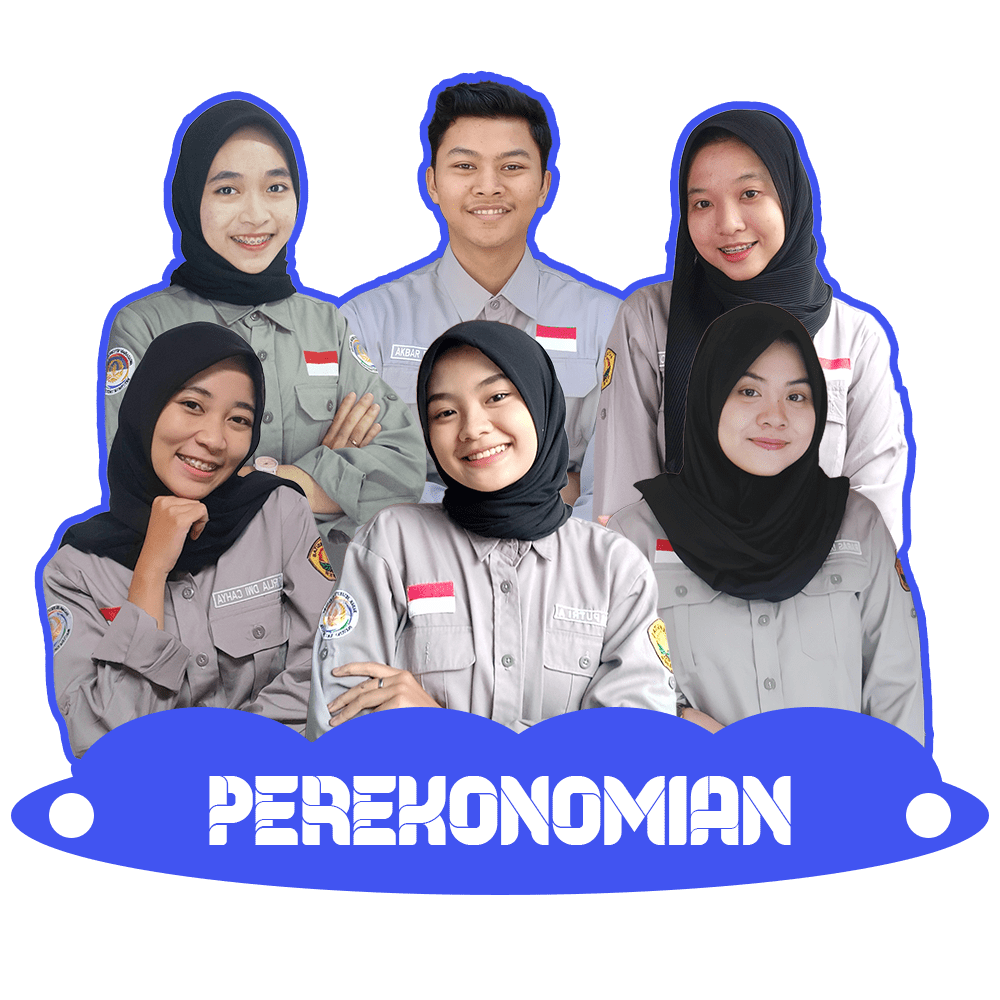
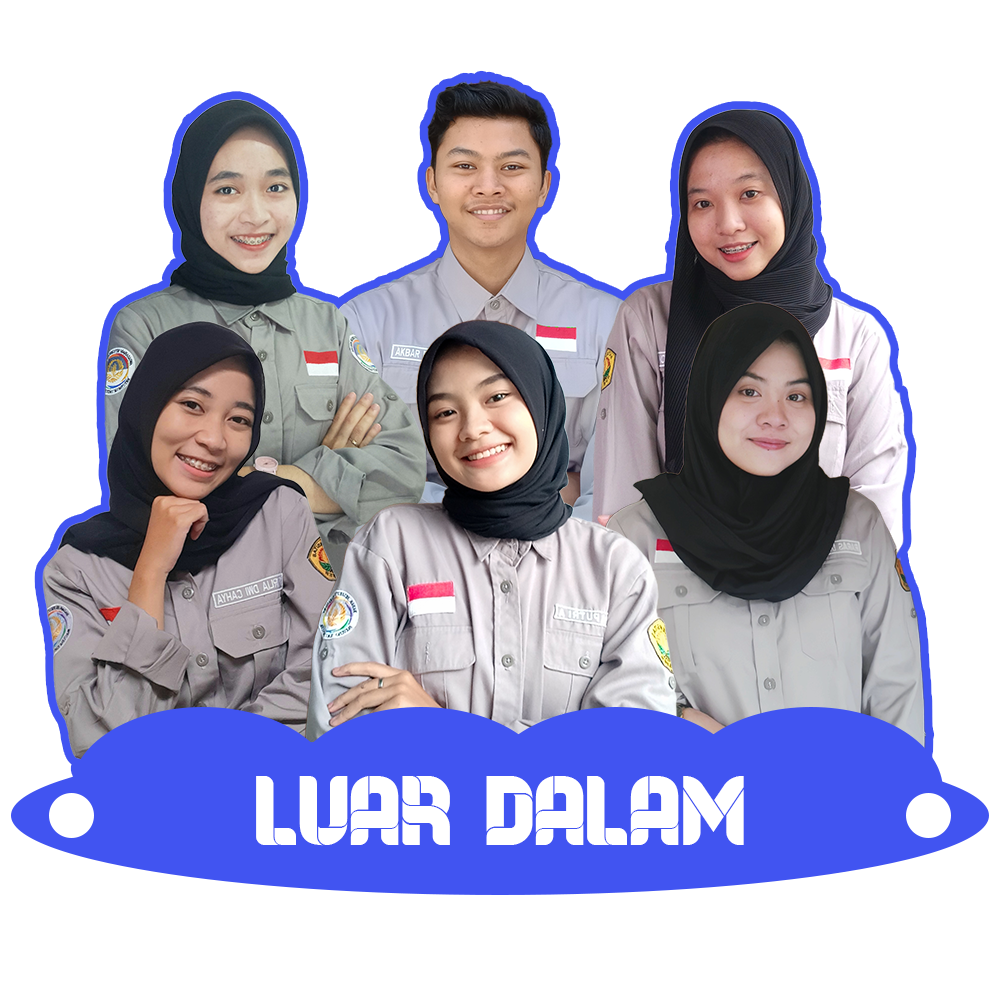
feat: change kementrian to divisi

Changed region(s): [[0.186, 0.775, 0.806, 0.868]]

diff --git a/resources/views/pages/landing2/menu/kabinet.blade.php b/resources/views/pages/landing2/menu/kabinet.blade.php
@@ -173,8 +173,8 @@
     <div class="container" data-aos="fade-up">
 
       <header class="section-header">
-        <h2>KEMENTERIAN</h2>
-        <p>Kementerian Bem Fasilkom Unej</p>
+        <h2>Divisi</h2>
+        <p>Divisi Bem Fasilkom Unej</p>
       </header>
 
       <div class="row">
@@ -182,24 +182,24 @@
         <div class="col-lg-4" data-aos="fade-up" data-aos-delay="200">
           <div class="box">
             <img src={{asset("landing2/assets/img/team/Team-PSDM.png")}} class="img-fluid" alt="PSDM Squad">
-            <h3>Kementerian PSDM</h3>
-            <p>Divisi (Kementerian) Pengembangan Sumber Daya Mahasiswa berorientasi pada potensi manajerial dan mengembangkan kemampuan dalam bidang organisasi individu maupun berkelompok;</p>
+            <h3>Divisi PSDM</h3>
+            <p>Divisi Pengembangan Sumber Daya Mahasiswa berorientasi pada potensi manajerial dan mengembangkan kemampuan dalam bidang organisasi individu maupun berkelompok;</p>
           </div>
         </div>
 
         <div class="col-lg-4 mt-4 mt-lg-0" data-aos="fade-up" data-aos-delay="400">
           <div class="box">
             <img src={{asset("landing2/assets/img/team/Team-Kominfo.png")}} class="img-fluid" alt="Kominfo Squad">
-            <h3>Kementerian KOMINFO</h3>
-            <p>Divisi (Kementerian) Komunikasi dan Informasi yang berorientasi pada komunikasi, mengelola informasi di bidang ilmu komputer, serta sebagai penyedia media informasi dan komunikasi BEM Fasilkom UNEJ.</p>
+            <h3>Divisi KOMINFO</h3>
+            <p>Divisi Komunikasi dan Informasi yang berorientasi pada komunikasi, mengelola informasi di bidang ilmu komputer, serta sebagai penyedia media informasi dan komunikasi BEM Fasilkom UNEJ.</p>
           </div>
         </div>
 
         <div class="col-lg-4 mt-4 mt-lg-0" data-aos="fade-up" data-aos-delay="600">
           <div class="box">
             <img src={{asset("landing2/assets/img/team/Team-ADKESMA.png")}} class="img-fluid" alt="Adkesma Squad">
-            <h3>Kementerian ADKESMA</h3>
-            <p>Divisi (Kementerian) Advokasi dan Kesatuan Mahasiswa yang berorientasi pada persatuan
+            <h3>Divisi ADKESMA</h3>
+            <p>Divisi Advokasi dan Kesatuan Mahasiswa yang berorientasi pada persatuan
               mahasiswa dan memperjuangkan hasil keputusan forum bersama.</p>
           </div>
         </div>
@@ -207,8 +207,8 @@
         <div class="col-lg-4" data-aos="fade-up" data-aos-delay="200">
           <div class="box">
             <img src={{asset("landing2/assets/img/team/Team-LuarDalam.png")}} class="img-fluid" alt="Luar Dalam Squad">
-            <h3>Kementerian LuarDalam</h3>
-            <p>Divisi (Kementerian) Luar Dalam yang berorientasi pada memperkenalkan Fasilkom,
+            <h3>Divisi LuarDalam</h3>
+            <p>Divisi Luar Dalam yang berorientasi pada memperkenalkan Fasilkom,
               dan menjalin koordinasi, konsolidasi, dan monitoring juga hubungan baik dengan
               lembaga mahasiswa Fakultas Ilmu Komputer Universitas Jember termasuk pengurus
               BEM Fasilkom UNEJ;</p>
@@ -218,8 +218,8 @@
         <div class="col-lg-4 mt-4 mt-lg-0" data-aos="fade-up" data-aos-delay="400">
           <div class="box">
             <img src={{asset("landing2/assets/img/team/Team-RumahTangga.png")}} class="img-fluid" alt="Rumah Tangga Squad">
-            <h3>Kementerian RumahTangga</h3>
-            <p>Divisi (Kementerian) Minat Bakat (Rumah Tangga) yang berorientasi pada
+            <h3>Divisi RumahTangga</h3>
+            <p>Divisi Minat Bakat (Rumah Tangga) yang berorientasi pada
               penjaringan dan peningkatan mahasiswa dibidang akademik dan non-akademik baik
               individu maupun kelompok serta koordinasi dengan Unit Kegiatan Mahasiswa</p>
           </div>
@@ -228,8 +228,8 @@
         <div class="col-lg-4 mt-4 mt-lg-0" data-aos="fade-up" data-aos-delay="600">
           <div class="box">
             <img src={{asset("landing2/assets/img/team/Team-Perekonomian.png")}} class="img-fluid" alt="Perekonomian Squad">
-            <h3>Kementerian Perekonomian</h3>
-            <p>Divisi (Kementerian) Perekonomian yang berorientasi pada kesejahteraan BEM Fasilkom UNEJ melalui kegiatan untuk menambah pemasukan dalam bentuk apapun</p>
+            <h3>Divisi Perekonomian</h3>
+            <p>Divisi Perekonomian yang berorientasi pada kesejahteraan BEM Fasilkom UNEJ melalui kegiatan untuk menambah pemasukan dalam bentuk apapun</p>
           </div>
         </div>
 

diff --git a/resources/views/pages/landing2/minister/psdm.blade.php b/resources/views/pages/landing2/minister/psdm.blade.php
@@ -5,7 +5,7 @@
     <div class="container">
         <div class="row">
             <div class="col-lg-6 d-flex flex-column justify-content-center">
-                <h1 data-aos="fade-up">Kementerian PSDM</h1>
+                <h1 data-aos="fade-up">Divisi PSDM</h1>
                 <h4 class="text-white" data-aos="fade-up" data-aos-delay="400">Memberdayakan dan mengembangkan sumber daya mahasiswa dalam manajerial diri dan pola pikir keorganisasian;</h4>
                 <div data-aos="fade-up" data-aos-delay="600">
                     <div class="text-center text-lg-start">
@@ -66,8 +66,8 @@
                 <div class="col-lg-4 col-md-6" data-aos="fade-up" data-aos-delay="500">
                     <div class="service-box red">
                         <i class="ri-discuss-line icon"></i>
-                        <h3>Staf Muda</h3>
-                        <p>Staf Muda BEM Fakultas Ilmu Komputer adalah suatu program kerja yang berorientasi pada pembinaan dan pengembangan yang berada pada naungan Badan Eksekutif Mahasiswa Fakultas Ilmu Komputer Universitas Jember.</p>
+                        <h3>FORGATE</h3>
+                        <p>FORGATE BEM Fakultas Ilmu Komputer adalah suatu program kerja yang berorientasi pada pembinaan dan pengembangan yang berada pada naungan Badan Eksekutif Mahasiswa Fakultas Ilmu Komputer Universitas Jember.</p>
                         <a href="https://wa.me/+623891620532" class="read-more"><span>Selengkapnya</span> <i class="bi bi-arrow-right"></i></a>
                     </div>
                 </div>
@@ -76,7 +76,7 @@
                     <div class="service-box purple">
                         <i class="ri-discuss-line icon"></i>
                         <h3>PKKMB</h3>
-                        <p>Cumque et suscipit saepe. Est maiores autem enim facilis ut aut ipsam corporis aut. Sed animi at autem alias eius labore.</p>
+                        <p>Program Pengenalan Kehidupan Kampus bagi Mahasiswa Baru agar mahasiswa dapat beradaptasi dengan lingkungan baru</p>
                         <a href="https://www.instagram.com/pkkmb_ilkomunej/" class="read-more"><span>Selengkapnya</span> <i class="bi bi-arrow-right"></i></a>
                     </div>
                 </div>
@@ -85,7 +85,7 @@
                     <div class="service-box pink">
                         <i class="ri-discuss-line icon"></i>
                         <h3>PPMB</h3>
-                        <p>Hic molestias ea quibusdam eos. Fugiat enim doloremque aut neque non et debitis iure. Corrupti recusandae ducimus enim.</p>
+                        <p>Pembinaan dan Pengembangan Mahasiswa Baru untuk memberikan edukasi dan melatih kedisiplinan mahasiswa baru sebelum mengikuti perkuliahan di kampus</p>
                         <a href="https://instagram.com/ppmb_ilkomunej" class="read-more"><span>Selengkapnya</span> <i class="bi bi-arrow-right"></i></a>
                     </div>
                 </div>
@@ -103,7 +103,7 @@
 
             <header class="section-header">
                 <h2>ANGGOTA</h2>
-                <p>Daftar Anggota Kominfo</p>
+                <p>Daftar Anggota PSDM</p>
             </header>
 
             <div class="row gy-4">

diff --git a/resources/views/pages/landing2/minister/kominfo.blade.php b/resources/views/pages/landing2/minister/kominfo.blade.php
@@ -5,7 +5,7 @@
     <div class="container">
         <div class="row">
             <div class="col-lg-6 d-flex flex-column justify-content-center">
-                <h1 data-aos="fade-up">Kementerian Kominfo</h1>
+                <h1 data-aos="fade-up">Divisi Kominfo</h1>
                 <h4 class="text-white" data-aos="fade-up" data-aos-delay="400">Mengelola dan mengembangkan media informasi dan komunikasi BEM Fasilkom UNEJ</h4>
                 <div data-aos="fade-up" data-aos-delay="600">
                     <div class="text-center text-lg-start">
@@ -40,7 +40,7 @@
                     <div class="service-box blue">
                         <i class="ri-discuss-line icon"></i>
                         <h3>Sarasehan</h3>
-                        <p>Sarasehan merupakan salah satu program kerja kementerian kominfo yang bertujuan untuk diskusi bersama dengan bem luar fasilkom</p>
+                        <p>Sarasehan merupakan salah satu program kerja divisi kominfo yang bertujuan untuk diskusi bersama dengan bem luar fasilkom</p>
                         <a href="https://wa.me/+623891620532" class="read-more"><span>Selengkapnya</span> <i class="bi bi-arrow-right"></i></a>
                     </div>
                 </div>

diff --git a/resources/views/pages/landing2/minister/adkesma.blade.php b/resources/views/pages/landing2/minister/adkesma.blade.php
@@ -5,7 +5,7 @@
     <div class="container">
         <div class="row">
             <div class="col-lg-6 d-flex flex-column justify-content-center">
-                <h1 data-aos="fade-up">Kementerian Adkesma</h1>
+                <h1 data-aos="fade-up">Divisi Adkesma</h1>
                 <h4 class="text-white" data-aos="fade-up" data-aos-delay="400">Mencari, mengkaji dan menindaklanjuti persoalan-persoalan yang ada di dalam lingkungan Fakultas Ilmu Komputer Universitas Jember dengan data-data yang di dapat dari dalam maupun luar Fakultas Ilmu Komputer Universitas Jember.</h4>
                 <div data-aos="fade-up" data-aos-delay="600">
                     <div class="text-center text-lg-start">

diff --git a/resources/views/pages/landing2/minister/luardalam.blade.php b/resources/views/pages/landing2/minister/luardalam.blade.php
@@ -5,7 +5,7 @@
   <div class="container">
     <div class="row">
       <div class="col-lg-6 d-flex flex-column justify-content-center">
-        <h1 data-aos="fade-up">Kementerian Luar Dalam</h1>
+        <h1 data-aos="fade-up">Divisi Luar Dalam</h1>
         <h4 class="text-white" data-aos="fade-up" data-aos-delay="400">Melakukan konsolidasi dan kerjasama antara BEM Fasilkom UNEJ dengan stakeholder dari dalam maupun luar Fakultas Ilmu Komputer Universitas Jember;</h4>
         <div data-aos="fade-up" data-aos-delay="600">
           <div class="text-center text-lg-start">

diff --git a/resources/views/pages/landing2/minister/rumahtangga.blade.php b/resources/views/pages/landing2/minister/rumahtangga.blade.php
@@ -5,7 +5,7 @@
   <div class="container">
     <div class="row">
       <div class="col-lg-6 d-flex flex-column justify-content-center">
-        <h1 data-aos="fade-up">Kementerian Rumah Tangga</h1>
+        <h1 data-aos="fade-up">Divisi Rumah Tangga</h1>
         <h4 class="text-white" data-aos="fade-up" data-aos-delay="400">Menciptakan koordinasi yang baik terhadap seluruh UKM, ORMAWA, Komunitas, dan Angkatan yang ada di Fakultas Ilmu Komputer Universitas Jember.</h4>
         <div data-aos="fade-up" data-aos-delay="600">
           <div class="text-center text-lg-start">

diff --git a/resources/views/pages/landing2/main.blade.php b/resources/views/pages/landing2/main.blade.php
@@ -56,7 +56,7 @@
             <ul>
               <li><a href="{{ route('profil') }}">Profil</a></li>
               <li><a href="{{ route('kabinet')}}">Kabinet</a></li>
-              <li class="dropdown"><a href="#"><span>Kementerian</span> <i class="bi bi-chevron-right"></i></a>
+              <li class="dropdown"><a href="#"><span>Divisi</span> <i class="bi bi-chevron-right"></i></a>
                 <ul>
                   <li><a href="{{ route('kominfo') }}">Kominfo</a></li>
                   <li><a href="{{ route('perekonomian') }}">Perekonomian</a></li>

diff --git a/resources/views/pages/landing2/minister/perekonomian.blade.php b/resources/views/pages/landing2/minister/perekonomian.blade.php
@@ -5,7 +5,7 @@
   <div class="container">
     <div class="row">
       <div class="col-lg-6 d-flex flex-column justify-content-center">
-        <h1 data-aos="fade-up">Kementerian Perekonomian</h1>
+        <h1 data-aos="fade-up">Divisi Perekonomian</h1>
         <h4 class="text-white" data-aos="fade-up" data-aos-delay="400">Menjalin hubungan kerjasama kemitraan dengan stakeholder dari dalam maupun luar Fakultas Ilmu Komputer Universitas Jember</h4>
         <div data-aos="fade-up" data-aos-delay="600">
           <div class="text-center text-lg-start">

diff --git a/resources/views/pages/landing2/menu/index.blade.php b/resources/views/pages/landing2/menu/index.blade.php
@@ -95,7 +95,7 @@
           {{--  <i class="bi bi-headset" style="color: #15be56;"></i> --}}
           {{--  <div> --}}
             {{--  <span data-purecounter-start="0" data-purecounter-end="6" data-purecounter-duration="1" class="purecounter"></span> --}}
-            {{--  <p>Kementerian</p> --}}
+            {{--  <p>Divisi</p> --}}
           {{--  </div> --}}
         {{--  </div> --}}
       {{--  </div> --}}

diff --git a/app/Http/Controllers/SiteController.php b/app/Http/Controllers/SiteController.php
@@ -61,7 +61,7 @@ class SiteController extends Controller
         'p_detail' => $p_detail]);
     }
 
-    // Kementerian
+    // Divisi
     public function kominfo(){
         return view('pages.landing2.minister.kominfo',  ["members" => Member::where('division', 'KOMINFO')->get()]);
     }
